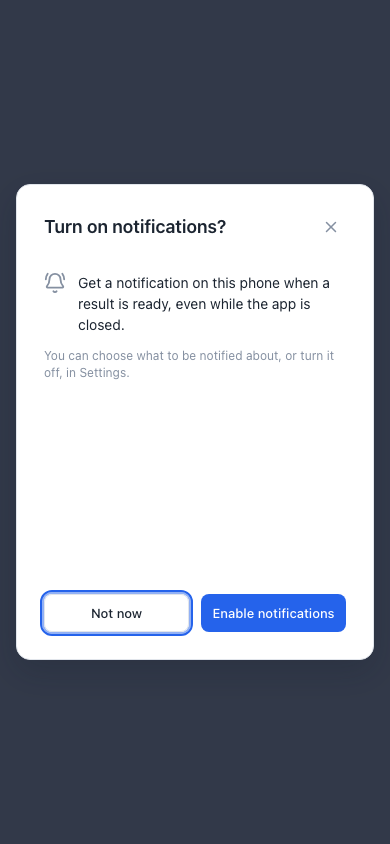
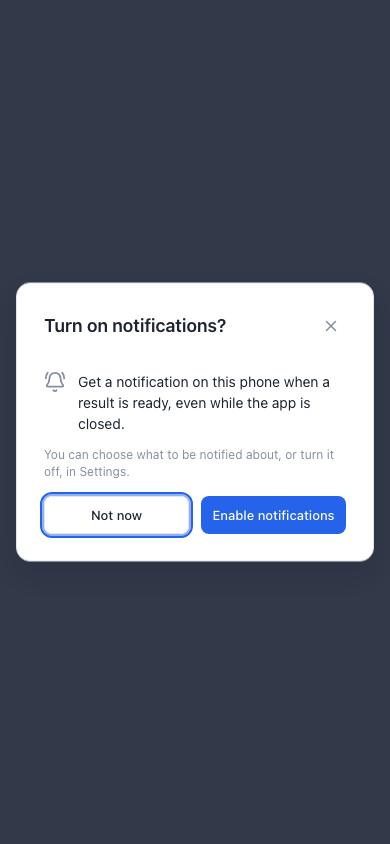
fix: fit the notification prompt dialog to its content

diff --git a/web/src/features/push-notifications/ui/push-prompt.css b/web/src/features/push-notifications/ui/push-prompt.css
@@ -31,3 +31,12 @@
   margin-top: 12px;
   color: var(--r-danger, currentColor);
 }
+
+/* A short question: the dialog fits its content instead of the shared 720px by 320px body. */
+.modal.surface-modal.push-prompt {
+  width: 440px;
+}
+
+.surface-modal.push-prompt .surface__body {
+  min-height: 0;
+}
